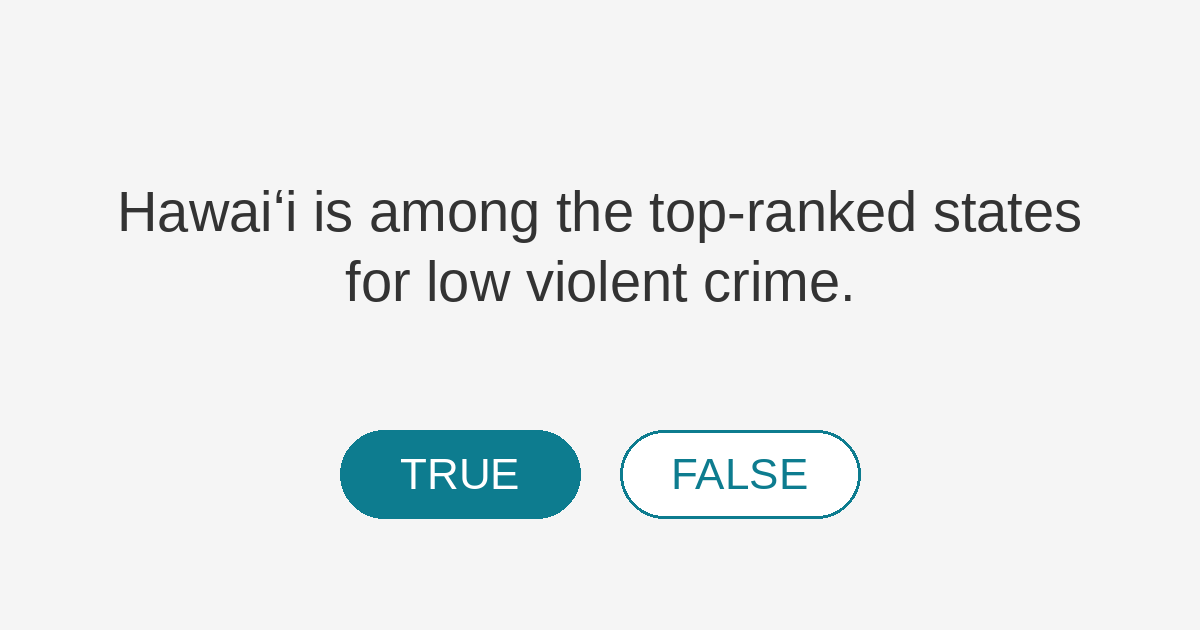
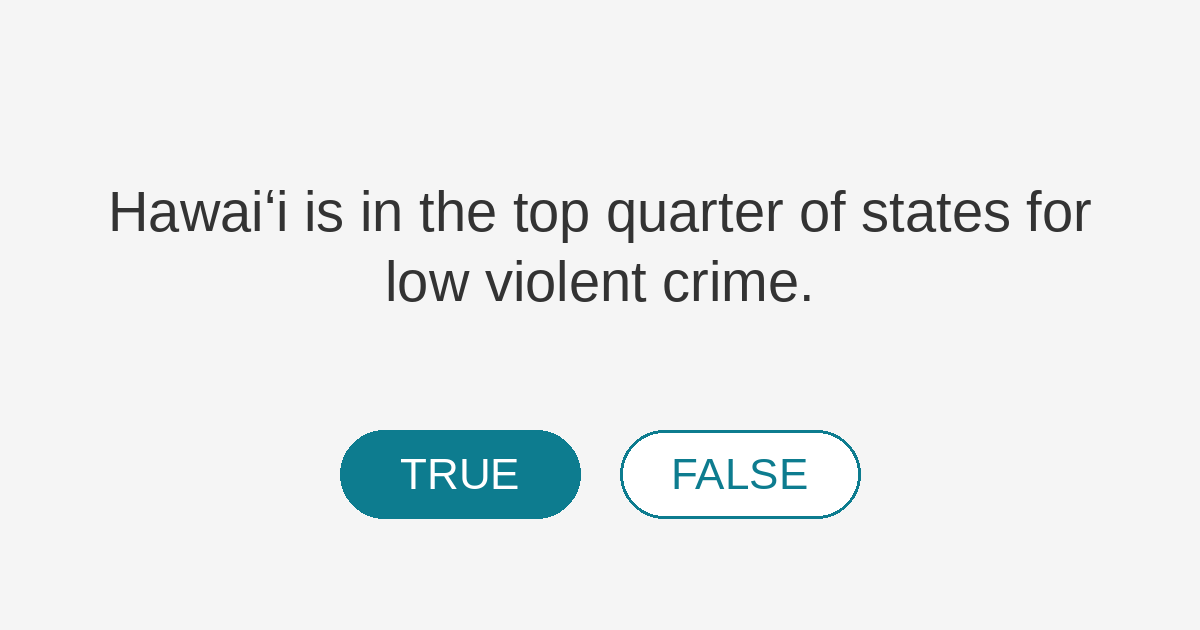
fix(qotd): q037 asserted a rank band the data left behind
q037 claimed "among the top-ranked states for low violent crime" while
Hawaiʻi sits at #12 of 50, outside the documented V3 rank<=10 discipline.

The slug still reads hawaii-is-in-the-top-10-states-for-low-violent-crime,
so this began as a gated "top 10" claim and was later softened to
"top-ranked" -- which parseRankAssertion cannot parse. Softening the
wording did not just weaken the claim, it removed the claim from the gate
entirely, so the rank was free to drift with nothing watching.

"Top 10" was never durable here anyway. Over 2009-2024 the rank ran #10
to #21 and was <=10 in only three years (2012, 2013, 2020). The claim is
now "in the top quarter of states for low violent crime", which is true at
#12, matches the language this metric's own rankHistoryNarrative uses,
and leaves the answer ("#12 of 50 in 2024, in the top quartile") already
correct and unchanged.

Rather than reword one question, teach the parser the two phrasings that
were escaping it:
  "top quarter|quartile|third|half" -> rank <= round(total/N), mirroring
      parseRankBand in audit-narrative-numbers.js
  "top-ranked"                      -> rank <= 10, encoding the V3 rule

That also gates q002, which used the same unparseable "top-ranked"
wording and was equally unwatched (it passes comfortably at #2).

Verified against the parser directly: the new claim gates at rank <=
total/4 and fails at #14, so the next drift trips it; the OLD wording now
[…]

Changed region(s): [[0.0925, 0.3016, 0.925, 0.3921], [0.2775, 0.4222, 0.7092, 0.4825]]

diff --git a/q/q037/index.html b/q/q037/index.html
@@ -13,7 +13,7 @@
   <meta name="twitter:card" content="summary_large_image">
   <meta name="twitter:title" content="You know Hawaiʻi?">
   <meta name="twitter:image" content="https://hawaiidashboard.org/assets/og/q/hawaii-is-in-the-top-10-states-for-low-violent-crime.png">
-  <meta name="description" content="Hawaiʻi is among the top-ranked states for low violent crime.">
+  <meta name="description" content="Hawaiʻi is in the top quarter of states for low violent crime.">
   <link rel="canonical" href="https://hawaiidashboard.org/q/q037/">
   <script>window.location.replace("/?from_q=q037");</script>
   <meta http-equiv="refresh" content="0;url=https://hawaiidashboard.org/?from_q=q037">
@@ -22,7 +22,7 @@
   <p>Redirecting to <a href="https://hawaiidashboard.org/?from_q=q037">You know Hawaiʻi?</a>&hellip;</p>
   <article style="max-width:640px;margin:2rem auto;padding:0 1rem;font-family:-apple-system,BlinkMacSystemFont,'Segoe UI',sans-serif;color:#333;line-height:1.55;">
     <p style="color:#888;font-size:0.875rem;text-transform:uppercase;letter-spacing:0.05em;margin:0;">You know Hawaiʻi?</p>
-    <p style="margin:0.25rem 0 1rem;font-size:1.25rem;font-weight:600;">Hawaiʻi is among the top-ranked states for low violent crime.</p>
+    <p style="margin:0.25rem 0 1rem;font-size:1.25rem;font-weight:600;">Hawaiʻi is in the top quarter of states for low violent crime.</p>
     <p><strong>True.</strong> Hawaiʻi ranks #12 of 50 in 2024, in the top quartile.</p>
     <p style="margin-top:1.5rem;"><a href="/r/violent_crime_rate/">See the data &rarr;</a></p>
   </article>

diff --git a/scripts/sync-qotd-answers.js b/scripts/sync-qotd-answers.js
@@ -340,6 +340,25 @@ function parseRankAssertion(claim) {
         const n = /^\d+$/.test(top[1]) ? +top[1] : WORD_NUM[top[1]];
         return { text: `rank <= ${n}`, test: (r) => r <= n };
     }
+    // Fraction bands ("top quarter"), matching parseRankBand in
+    // audit-narrative-numbers.js. Without these, a claim phrased as a
+    // fraction rather than a number parsed to null and went UNGATED: q037
+    // drifted from #10 to #12 unnoticed after "top 10" was softened to the
+    // unparseable "top-ranked".
+    const frac = c.match(/\btop[- ](quarter|quartile|third|half)\b/);
+    if (frac) {
+        const div = { quarter: 4, quartile: 4, third: 3, half: 2 }[frac[1]];
+        return {
+            text: `rank <= total/${div}`,
+            test: (r, t) => r <= Math.round(t / div),
+        };
+    }
+    // Bare "top-ranked" names no number, so it parsed to null and escaped the
+    // gate entirely. Hold it to the documented V3 discipline (rank <= 10):
+    // that is what the phrase asserts, and it is the rule q037 quietly broke.
+    if (/\btop[- ]ranked\b/.test(c)) {
+        return { text: 'rank <= 10 (V3 discipline)', test: (r) => r <= 10 };
+    }
     const only = c.match(/\bonly (one|two|three)\b/);
     if (only) {
         // "only N states are more extreme than Hawaiʻi" -> Hawaiʻi sits N places

diff --git a/js/questions.js b/js/questions.js
@@ -299,7 +299,7 @@ const QOTD_QUESTIONS = [
   {
       "id": "q037",
       "slug": "hawaii-is-in-the-top-10-states-for-low-violent-crime",
-      "claim": "Hawaiʻi is among the top-ranked states for low violent crime.",
+      "claim": "Hawaiʻi is in the top quarter of states for low violent crime.",
       "correct": true,
       "answer": "Hawaiʻi ranks #12 of 50 in 2024, in the top quartile.",
       "chartUrl": "/r/violent_crime_rate/",
